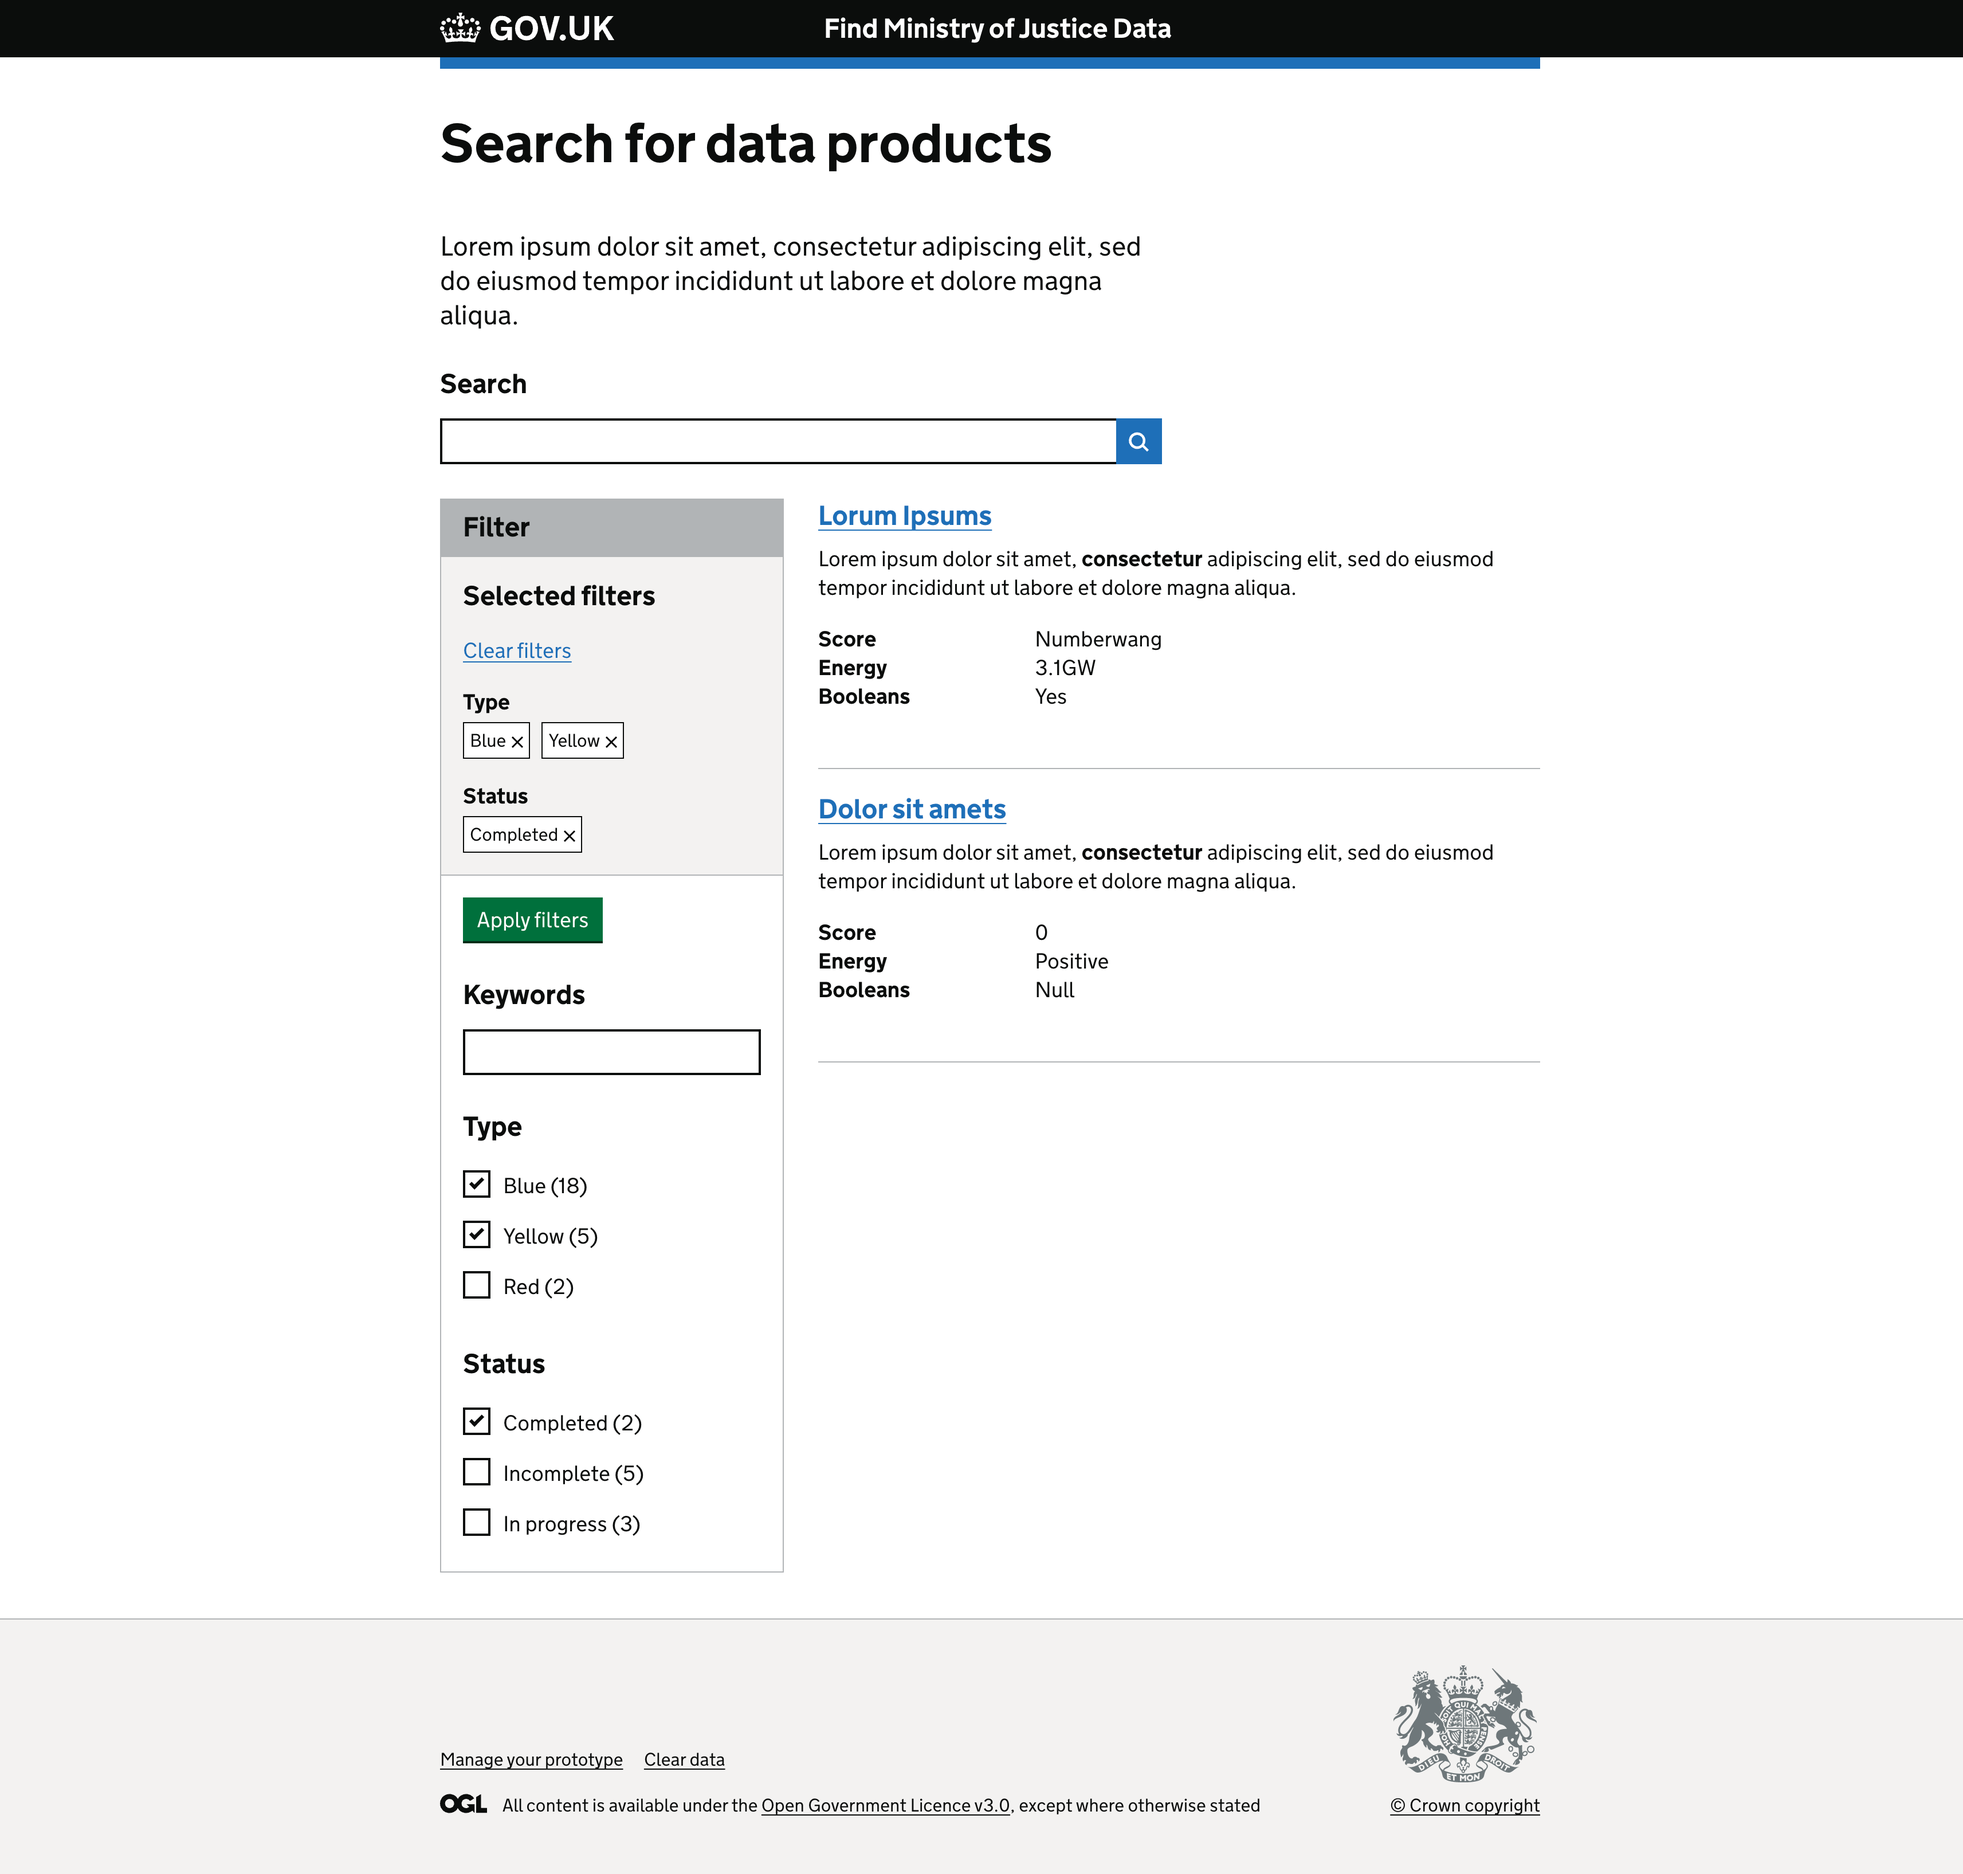
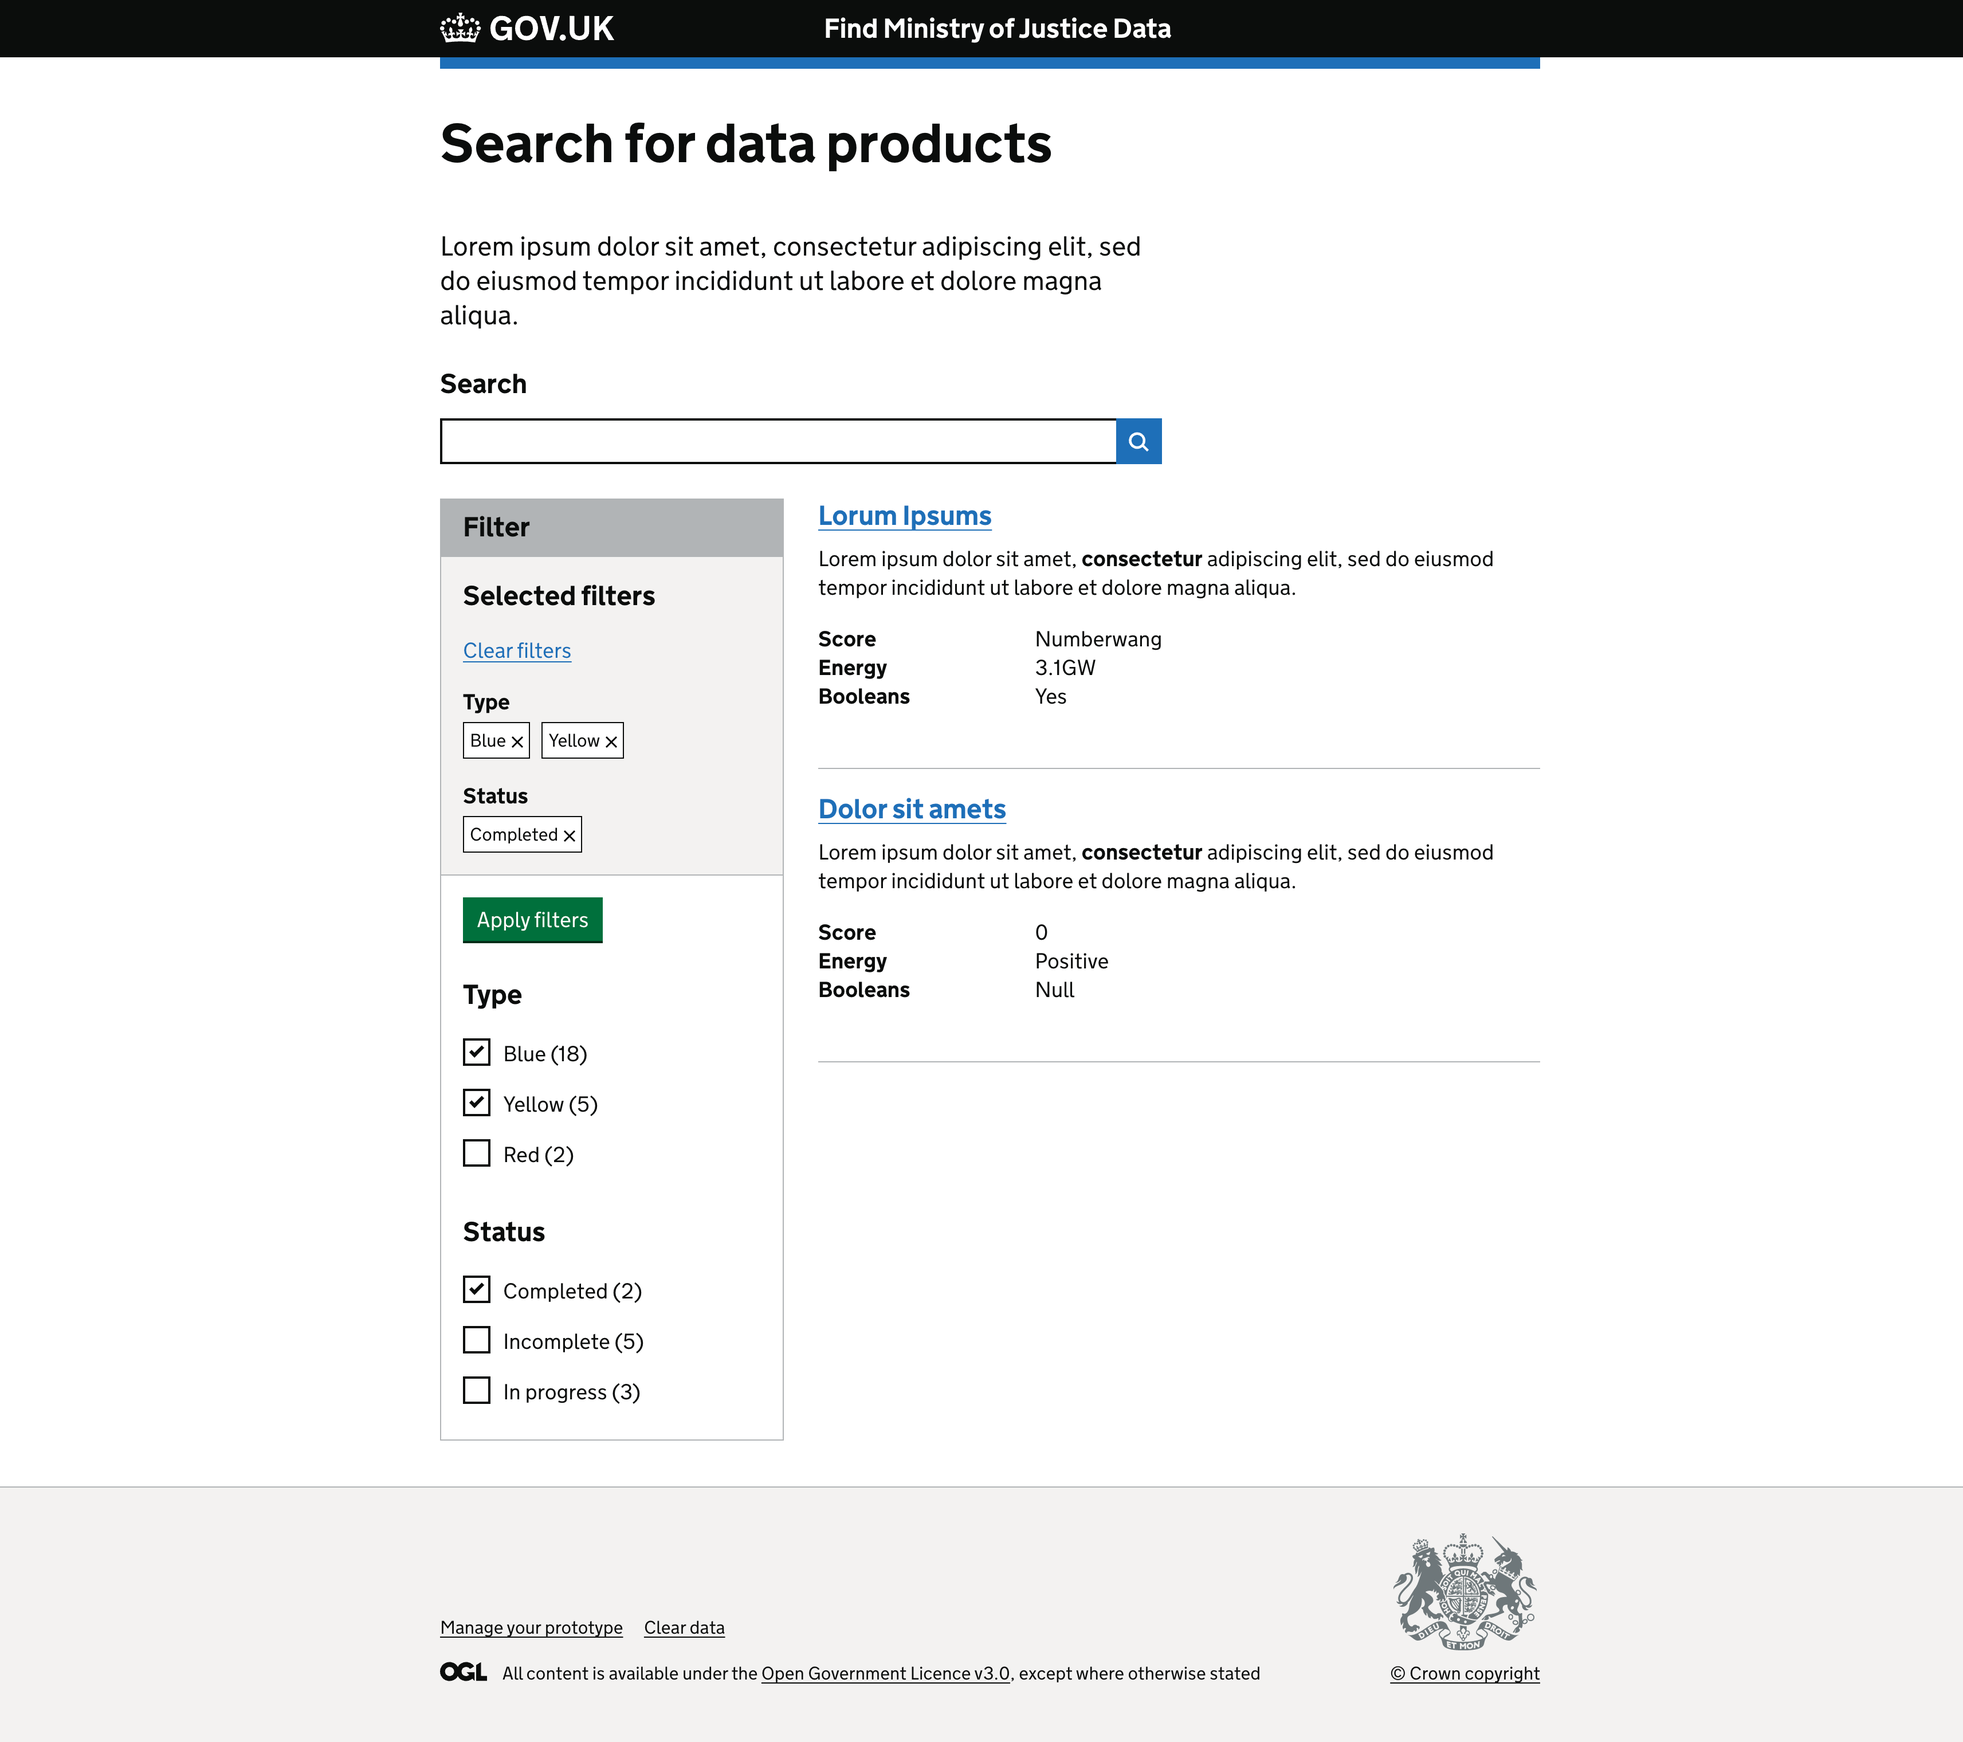
Remove redundant search bar!

diff --git a/app/views/search.html b/app/views/search.html
@@ -86,14 +86,6 @@
           </button>
     
           <div class="govuk-form-group">
-            <label class="govuk-label govuk-label--m" for="keywords">
-              Keywords
-            </label>
-    
-            <input class="govuk-input" id="keywords" name="keywords" type="text">
-          </div>
-    
-          <div class="govuk-form-group">
             <fieldset class="govuk-fieldset">
               <legend class="govuk-fieldset__legend govuk-fieldset__legend--m">
                 Type
